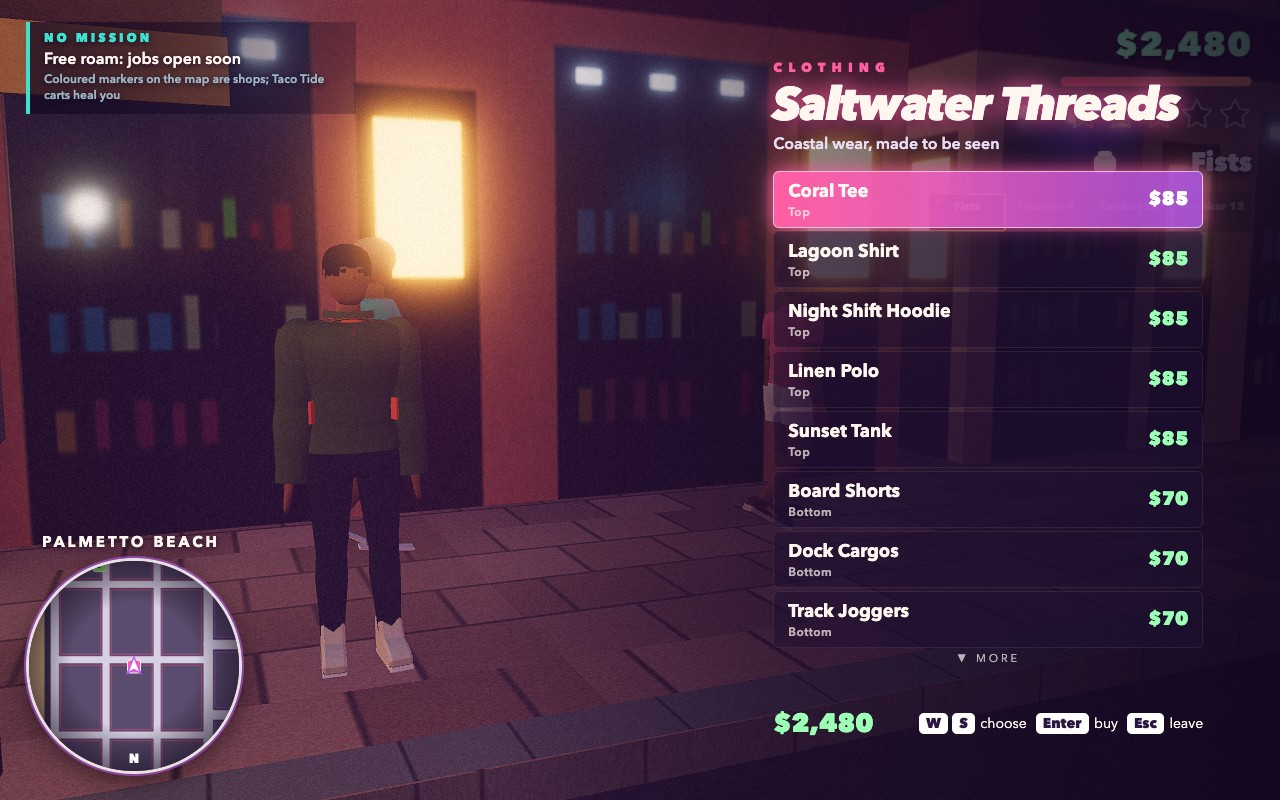
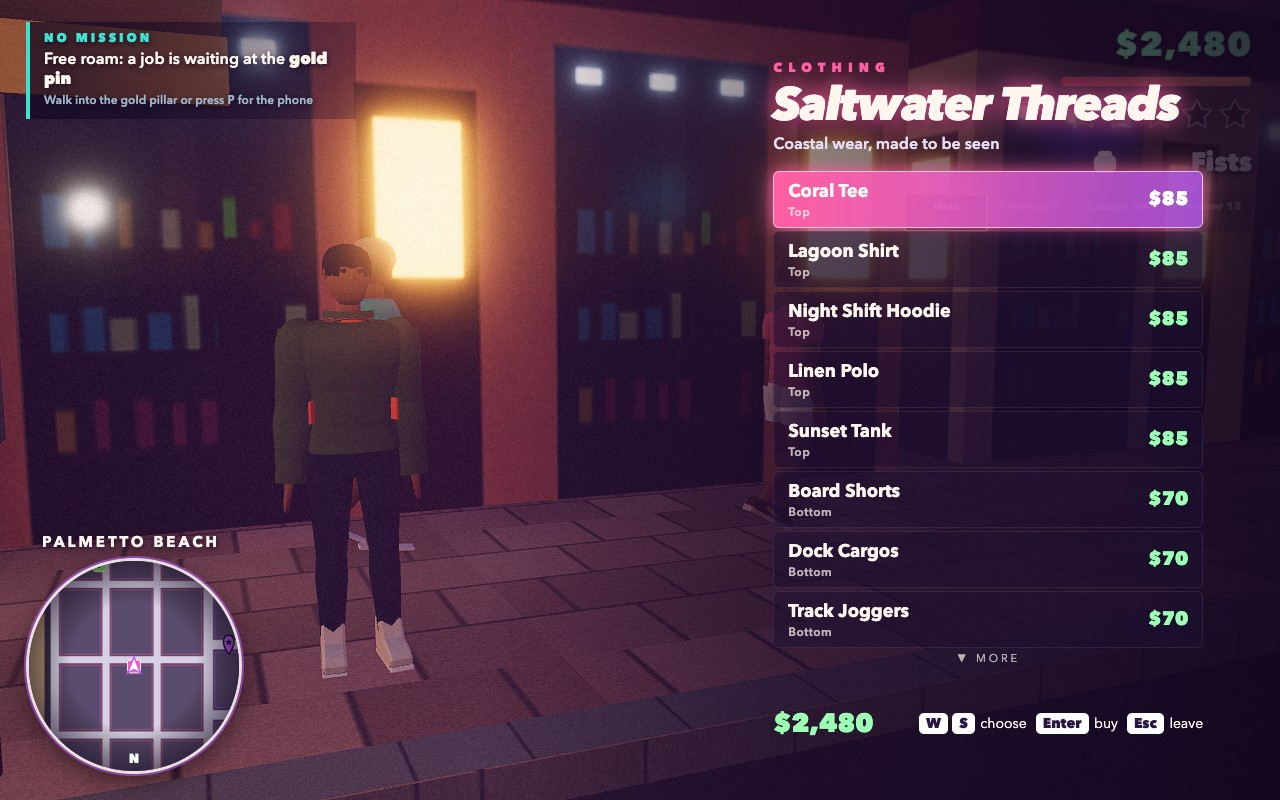
feat(shots): dusk heist-escape cover (mission panel, dispatch, stars, stowed weapon bar, Solis on the radio card, minimap, helicopter, radio line) and the full-map shot; director jump to a stage; radio line wraps clear of the panels; readable speaker names

Changed region(s): [[0.0312, 0.0625, 0.2812, 0.1562], [0.1562, 0.7812, 0.1875, 0.8125]]

diff --git a/game/src/shotsaction.js b/game/src/shotsaction.js
@@ -1,6 +1,10 @@
-// Action screenshot scenes: a night police chase with the helicopter, a dusk street firefight and a shop screen.
+// Action screenshot scenes: the heist's dusk police chase with the helicopter (the cover) and a street firefight.
 
 import { PART } from './palette.js';
+import { STORY_MISSIONS } from './missions/story/index.js';
+
+const HEIST = 'gilded-tide';
+const ESCAPE_STAGE = 3;
 
 const wrap = (angle) => Math.atan2(Math.sin(angle), Math.cos(angle));
 
@@ -88,16 +92,24 @@ export const ACTION_SHOTS = {
     },
   },
 
-  police: {
-    time: 'night',
+  // The cover: Gilded Tide, stage 4 of 5. Ilo runs the dragnet up Neon Mile in the linen van at dusk, three
+  // cruisers and Air-1 behind, while Solis calls every unit on the radio.
+  mission: {
+    time: 'dusk',
     steps: CHASE.steps,
     focus: [100, 0, -40],
     stage(game) {
       const { police } = game.action;
-      const car = game.fleet.add('coupe', '#f0a800');
+      game.missions.progress.done.push(...STORY_MISSIONS.map((def) => def.id).filter((id) => id !== HEIST));
+      game.missions.jump(HEIST, ESCAPE_STAGE);
+      const car = game.missions.state.props.cars['linen-van'].car;
       car.position.set(CHASE.laneX, 0, CHASE.startZ);
       car.heading = Math.PI;
       game.player.enterNow(car);
+      const arsenal = game.player.state.arsenal;
+      arsenal.owned.pistol = { clip: 12, reserve: 36 };
+      arsenal.owned.smg = { clip: 24, reserve: 96 };
+      arsenal.current = 'smg';
       game.player.state.vehicle.vz = -CHASE.speed;
       game.player.state.autopilot = laneKeeper(game, CHASE.laneX, Math.PI, 0.62);
       police.setStars(4);
@@ -116,6 +128,8 @@ export const ACTION_SHOTS = {
             police.helicopter.arrive({ x: p.x, y: 0, z: p.z }, 0);
             Object.assign(police.helicopter.state, { x: p.x + 8, z: p.z + 30, y: 27 });
           }
+          // Finish Solis's line a step early so the card shows it whole on the captured frame.
+          if (index === CHASE.steps - 2 && !game.dialogue.conversation.complete) game.dialogue.conversation.skip();
           if (index !== CHASE.steps - 1) return;
           const p = game.player.state.car.position;
           Object.assign(police.helicopter.state, { x: p.x + 3, z: p.z + 30, y: p.y + 14, heading: 2.9 });

diff --git a/game/src/shots.js b/game/src/shots.js
@@ -1,6 +1,7 @@
 // Deterministic screenshot scenes behind ?shot=<name>&seed=N: each sets time of day, actors and camera.
 import { ACTION_SHOTS } from './shotsaction.js';
 import { SHOP_SHOTS } from './shotsshop.js';
+import { STORY_MISSIONS } from './missions/story/index.js';
 
 const CLUTTER = ['bin', 'news', 'hydrant', 'bench', 'meter', 'bollard', 'shelter', 'planter', 'palm', 'palmTall',
   'tree', 'lamp', 'sign', 'signal'];
@@ -156,6 +157,31 @@ export const SHOTS = {
   },
 };
 
+/**
+ * The full map (N): three jobs done so the next story jobs and both activities pin the map, Ilo on foot by the
+ * cab rank with two stars and two cruisers closing in, the whole city at zoom 1.
+ */
+const MAP_SHOT = {
+  time: 'dusk',
+  steps: 20,
+  focus: [40, 0, 90],
+  stage(game) {
+    const { police } = game.action;
+    game.missions.progress.done.push(...STORY_MISSIONS.slice(0, 3).map((def) => def.id));
+    game.player.placeOnFoot(44, 92, Math.PI * 0.75);
+    police.setStars(2);
+    for (const [x, z] of [[102, 40], [-20, 150]]) police.units.adopt(game.fleet.reuse('cruiser', '#16203a'), x, z, 0);
+    return {
+      afterStep(index) {
+        if (index !== MAP_SHOT.steps - 1) return;
+        game.map.open({ zoom: 1.55 });
+        game.map.projection.centreOn(12, 10);
+      },
+    };
+  },
+};
+
 export function getShot(name) {
+  if (name === 'map') return MAP_SHOT;
   return SHOTS[name] ?? ACTION_SHOTS[name] ?? SHOP_SHOTS[name] ?? null;
 }

diff --git a/game/src/ui/dialoguecard.js b/game/src/ui/dialoguecard.js
@@ -1,5 +1,5 @@
 // Dialogue card: the speaker's portrait, name and role, the typewriter line and the skip hint, at the screen's foot.
-import { portraitCanvas } from './portrait.js';
+import { portraitCanvas, shade } from './portrait.js';
 import { FACTION_INFO, FACTIONS, UI_TOKENS } from '../palette.js';
 
 const PORTRAIT = 132;
@@ -7,6 +7,13 @@ const PORTRAIT = 132;
 function accentOf(person) {
   if (!person) return UI_TOKENS.gold;
   return FACTION_INFO[person.faction]?.colour ?? FACTIONS[person.faction] ?? UI_TOKENS.gold;
+}
+
+/** The accent lifted toward white until it reads on the dark card (police navy would vanish otherwise). */
+export function readableName(hex) {
+  const n = Number.parseInt(hex.slice(1), 16);
+  const luma = (0.2126 * ((n >> 16) & 255) + 0.7152 * ((n >> 8) & 255) + 0.0722 * (n & 255)) / 255;
+  return luma >= 0.55 ? hex : shade(hex, Math.min(0.75, 0.62 - luma * 0.6));
 }
 
 /** The card inside `parent`; update(person, text, complete) shows a line, update(null) hides the card. */
@@ -43,6 +50,7 @@ export function createDialogueCard(parent) {
         name.textContent = person.name;
         role.textContent = person.role;
         root.style.setProperty('--dc-accent', accentOf(person));
+        name.style.color = readableName(accentOf(person));
         root.classList.toggle('player', id === 'ilo');
       }
       if (text !== shown.text) {

diff --git a/game/src/ui/hud.js b/game/src/ui/hud.js
@@ -121,7 +121,8 @@ export function createHud(layout, visible = true) {
       if (view.weapon) weapon.update(view.weapon);
       weapon.root.style.display = view.driving ? 'none' : 'flex';
       if (view.arsenal) weaponBar.update(view.arsenal);
-      weaponBar.root.style.display = view.driving ? 'none' : 'flex';
+      // In a car the bar stays up, dimmed, as the loadout Ilo will have on stepping out.
+      weaponBar.root.classList.toggle('stowed', Boolean(view.driving));
       policeTimer -= view.dt ?? 1 / 60;
       if (view.police && (policeTimer <= 0 || !view.stars)) {
         policePanel.update(view.stars ? view.police() : null, view.stars ?? 0, Boolean(view.searching));
@@ -137,7 +138,7 @@ export function createHud(layout, visible = true) {
         lastRadio = radioKey;
         radio.className = `radio ${line.kind ?? 'song'}`;
         radio.innerHTML = `&#9835; <b>${line.station}</b><i>${RADIO_TAG[line.kind] ?? ''}</i>${line.text}`;
-        radio.style.display = view.driving ? 'block' : 'none';
+        radio.style.display = view.driving ? '' : 'none';
       }
       district.textContent = placeName(view.x, view.z);
       minimap.update(view.x, view.z, view.heading, view.blips, view.route);

diff --git a/game/src/missions/director.js b/game/src/missions/director.js
@@ -116,6 +116,26 @@ export function createMissions(game, defs, places, hooks = {}) {
     return true;
   }
 
+  /**
+   * Start `id` straight at stage `index` (scripted scenes and tests), skipping the intro: the stage is set up
+   * as a checkpoint, its alert raised and its line and talk played. Story order is not checked.
+   */
+  function jump(id, index) {
+    const def = byId.get(id);
+    if (!def || state.run || index < 0 || index >= def.stages.length) return false;
+    world.clearLatches(true);
+    state.run = createRun(def);
+    state.run.stage = index;
+    state.run.checkpoint = index;
+    state.phase = 'active';
+    setupStage(index, false);
+    if (def.outfit?.length) hooks.dress?.(def.outfit);
+    emit('started', { id });
+    enterStage(index);
+    announce(currentStage(state.run));
+    return true;
+  }
+
   function retry() {
     world.clearLatches();
     const [event] = restartRun(state.run);
@@ -141,6 +161,7 @@ export function createMissions(game, defs, places, hooks = {}) {
     state,
     pillars,
     start,
+    jump,
     get progress() {
       return progress;
     },

diff --git a/game/src/ui/hud.css b/game/src/ui/hud.css
@@ -73,15 +73,19 @@
   left: 50%;
   transform: translateX(-50%);
   padding: 7px 18px;
-  border-radius: 20px;
+  border-radius: 16px;
   background: linear-gradient(90deg, rgba(196, 92, 255, 0.35), rgba(255, 95, 162, 0.35));
   border: 1px solid rgba(255, 255, 255, 0.3);
   font-size: 15px;
   font-weight: 600;
-  white-space: nowrap;
-  max-width: min(64vw, 760px);
+  line-height: 1.3;
+  /* Clear of the left column (mission and dispatch panels) and the cash column; long lines wrap to two. */
+  width: max-content;
+  max-width: clamp(260px, calc(100vw - 800px), 760px);
+  display: -webkit-box;
+  -webkit-box-orient: vertical;
+  -webkit-line-clamp: 2;
   overflow: hidden;
-  text-overflow: ellipsis;
 }
 #hud .radio b { color: #ffd1e6; font-weight: 800; letter-spacing: 1px; margin-right: 9px; }
 #hud .radio i {

diff --git a/game/src/ui/hudpolice.css b/game/src/ui/hudpolice.css
@@ -83,10 +83,24 @@
 
 /* Weapon bar */
 #hud .weaponbar { display: flex; justify-content: flex-end; gap: 4px; margin-top: 8px; }
+/* In a car: the loadout stays visible but stowed, a little smaller and dimmer, with a small label. */
+#hud .weaponbar.stowed { position: relative; margin-top: 18px; filter: saturate(0.75); }
+#hud .weaponbar.stowed::before {
+  content: 'Stowed';
+  position: absolute;
+  top: -15px;
+  right: 2px;
+  font-size: 10px;
+  font-weight: 800;
+  letter-spacing: 2px;
+  text-transform: uppercase;
+  opacity: 0.7;
+}
+#hud .weaponbar.stowed .wslot.owned { opacity: 0.72; }
 #hud .wslot {
   position: relative;
-  width: 66px;
-  padding: 4px 4px 3px;
+  width: 74px;
+  padding: 4px 3px 3px;
   border-radius: 4px;
   background: rgba(14, 8, 30, 0.5);
   border: 2px solid transparent;
